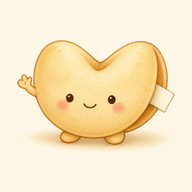
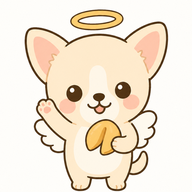
루티를 치와와 천사로 교체, 쿠키 라인아트 적용, 아이콘 재생성

diff --git a/styles.css b/styles.css
@@ -107,24 +107,32 @@ h1,h2,h3,p{margin:0}
 .fortune.cracked .fortune-closed{opacity:0;transform:scale(.96);pointer-events:none}
 
 .cookie-stage{position:relative;height:104px;display:flex;align-items:center;justify-content:center;margin-bottom:4px}
-.cookie{width:104px;height:90px;overflow:visible;transform-origin:50% 60%;animation:cookieFloat 4s ease-in-out infinite}
-.cookie path{fill:#FBEBC7;stroke:var(--gold);stroke-width:2.1;stroke-linejoin:round;stroke-linecap:round}
-.cookie .crease{fill:none;stroke:#E0B873;stroke-width:1.3;stroke-linecap:round;opacity:.85}
-.cookie-half{transform-origin:60px 56px}
+.cookie-pic{
+  position:relative;width:118px;height:96px;
+  transform-origin:50% 70%;
+  animation:cookieFloat 4s ease-in-out infinite;
+  filter:drop-shadow(0 6px 8px rgba(160,120,50,.10));
+}
+.cookie-half{
+  position:absolute;inset:0;width:100%;height:100%;object-fit:contain;
+  will-change:transform,opacity;
+}
+.cookie-half.left{clip-path:inset(0 50% 0 0)}
+.cookie-half.right{clip-path:inset(0 0 0 50%)}
 @keyframes cookieFloat{0%,100%{transform:translateY(0) rotate(-1.2deg)}50%{transform:translateY(-4px) rotate(1.4deg)}}
 
-.fortune.cracking .cookie{animation:none}
+.fortune.cracking .cookie-pic{animation:none}
 .fortune.cracking .cookie-half.left{animation:crackL .62s cubic-bezier(.3,.9,.3,1) forwards}
 .fortune.cracking .cookie-half.right{animation:crackR .62s cubic-bezier(.3,.9,.3,1) forwards}
 @keyframes crackL{
   0%{transform:none}
-  18%{transform:scale(.94) rotate(-3deg)}
-  100%{transform:translate(-34px,10px) rotate(-26deg);opacity:0}
+  20%{transform:scale(.94) rotate(-2deg)}
+  100%{transform:translate(-30px,12px) rotate(-24deg);opacity:0}
 }
 @keyframes crackR{
   0%{transform:none}
-  18%{transform:scale(.94) rotate(3deg)}
-  100%{transform:translate(34px,10px) rotate(26deg);opacity:0}
+  20%{transform:scale(.94) rotate(2deg)}
+  100%{transform:translate(30px,12px) rotate(24deg);opacity:0}
 }
 .crumb{position:absolute;width:5px;height:5px;border-radius:2px;background:#E7C88D;opacity:0}
 .fortune.cracking .crumb{animation:crumb .6s ease-out forwards}

diff --git a/index.html b/index.html
@@ -39,16 +39,10 @@
         <!-- 닫힌 쿠키 -->
         <div class="fortune-closed" id="fortuneClosed">
           <div class="cookie-stage">
-            <svg class="cookie" viewBox="0 0 120 104" aria-hidden="true">
-              <g class="cookie-half left">
-                <path d="M58 30 Q50 17 35 15 Q11 13 9 39 Q7 65 29 80 Q45 90 58 86 Z"/>
-                <path class="crease" d="M14 42 Q30 52 56 58" />
-              </g>
-              <g class="cookie-half right">
-                <path d="M62 30 Q70 17 85 15 Q109 13 111 39 Q113 65 91 80 Q75 90 62 86 Z"/>
-                <path class="crease" d="M106 42 Q90 52 64 58" />
-              </g>
-            </svg>
+            <div class="cookie-pic" aria-hidden="true">
+              <img class="cookie-half left" src="assets/cookie.png" alt="">
+              <img class="cookie-half right" src="assets/cookie.png" alt="">
+            </div>
             <span class="crumb c1"></span>
             <span class="crumb c2"></span>
             <span class="crumb c3"></span>
@@ -87,7 +81,9 @@
         <form class="add" id="addForm" autocomplete="off">
           <span class="add-plus" aria-hidden="true">+</span>
           <input id="addInput" type="text" maxlength="60" placeholder="할 일을 가볍게 적어 보세요" aria-label="할 일 추가" enterkeyhint="done">
-          <button class="add-go" type="submit" aria-label="추가">↵</button>
+          <button class="add-go" type="submit" aria-label="추가">
+            <svg viewBox="0 0 16 16" width="11" height="11" aria-hidden="true"><path d="M3 8h9M8.4 4.4 12 8l-3.6 3.6" fill="none" stroke="currentColor" stroke-width="1.5" stroke-linecap="round" stroke-linejoin="round"/></svg>
+          </button>
         </form>
         <p class="pad-empty" id="padEmpty" hidden>아직 비어 있어요. 한 줄 적어 볼까요?</p>
       </div>

diff --git a/sw.js b/sw.js
@@ -9,6 +9,7 @@ const SHELL = [
   './assets/icon-192.png',
   './assets/icon-512.png',
   './assets/routi-128.png',
+  './assets/cookie.png',
   './assets/apple-touch-icon.png'
 ];
 

diff --git a/README.md b/README.md
@@ -40,7 +40,7 @@ styles.css        떡메모지 · 문구점 감성 스타일
 app.js            체크리스트 · 포춘쿠키 · 기록 (localStorage)
 manifest.json     PWA 매니페스트
 sw.js             오프라인 캐시 (서비스 워커)
-assets/           루티 마스코트 & 앱 아이콘
+assets/           루티 마스코트 & 앱 아이콘 & 쿠키 라인아트
 ```
 
 ## 저장 방식
@@ -51,4 +51,4 @@ assets/           루티 마스코트 & 앱 아이콘
 
 ## 루티 (Routi)
 
-하이루티의 마스코트. 종이처럼 보들보들한 포춘쿠키 요정으로, 항상 손을 흔들고 있습니다.
+하이루티의 마스코트. 머리 위에 작은 링을 두른 **치와와 천사** 루티가 늘 포춘쿠키를 안고 손을 흔들고 있습니다.
